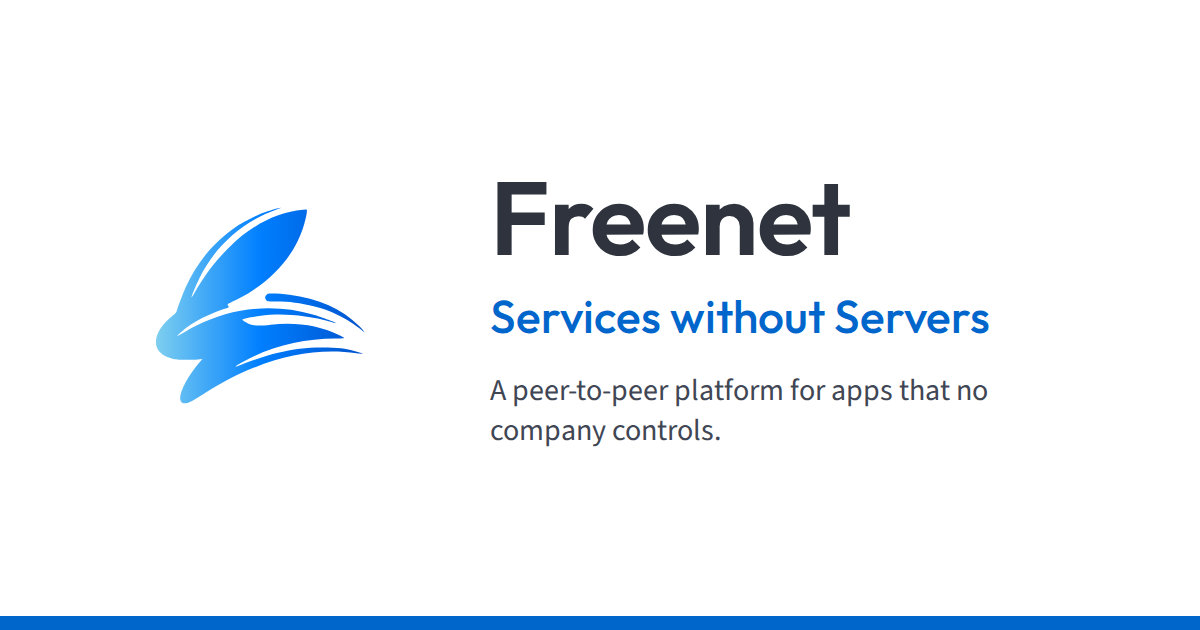
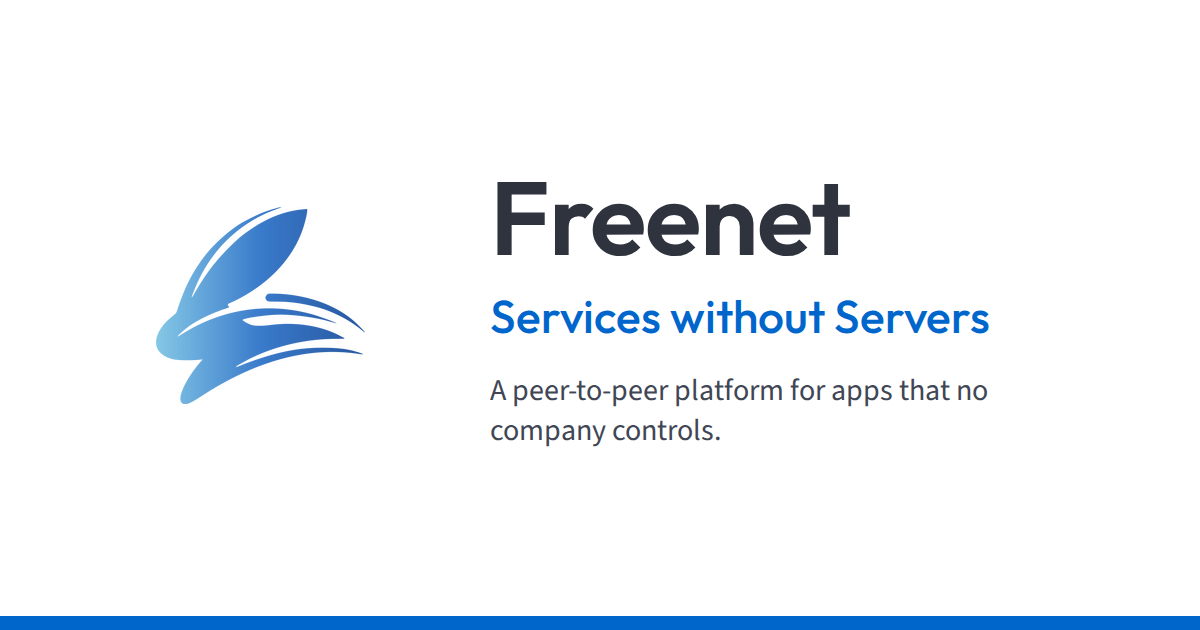
chore: use the desaturated brand colours in the og card and FUTO slides
Brings the logo and brand blues in line with the desaturated freenet.org palette
(freenet/web #208): logo gradient #7ecfef/#007FFF/#0052cc -> #85c8e6/#3a7bcb/#26569f.

Claude-Session: https://claude.ai/code/session_01Xxpwzxo559L3gHJWgziwbV

Changed region(s): [[0.1542, 0.3317, 0.3083, 0.6333]]

diff --git a/hugo-site/static/slides/futo/network-hero-dark.js b/hugo-site/static/slides/futo/network-hero-dark.js
@@ -18,7 +18,7 @@
 
   // Event type colors (matches dashboard)
   const COLORS = {
-    connect:   '#7ecfef',
+    connect:   '#85c8e6',
     put:       '#fbbf24',
     get:       '#34d399',
     update:    '#a78bfa',
@@ -43,8 +43,8 @@
 
   function ringColor()   { return isDark() ? '#1a2a2a' : '#d0d8e0'; }
   function glowColor()   { return isDark() ? 'rgba(0, 212, 170, 0.08)' : 'rgba(0, 140, 120, 0.06)'; }
-  function peerColor()   { return isDark() ? '#007FFF' : '#3388dd'; }
-  function peerGlow()    { return isDark() ? 'rgba(0, 127, 255, 0.18)' : 'rgba(0, 100, 200, 0.12)'; }
+  function peerColor()   { return isDark() ? '#3a7bcb' : '#3388dd'; }
+  function peerGlow()    { return isDark() ? 'rgba(58, 123, 203, 0.18)' : 'rgba(0, 100, 200, 0.12)'; }
   function gwColor()     { return '#f59e0b'; }
   function labelColor()  { return isDark() ? '#484f58' : '#8090a0'; }
   function innerRing()   { return isDark() ? 'rgba(255,255,255,0.03)' : 'rgba(0,0,0,0.04)'; }
@@ -216,7 +216,7 @@
     var dark = isDark();
     var alpha = dark ? 0.09 : 0.05;
 
-    ctx.strokeStyle = dark ? 'rgba(0, 127, 255, ' + alpha + ')' : 'rgba(0, 80, 180, ' + alpha + ')';
+    ctx.strokeStyle = dark ? 'rgba(58, 123, 203, ' + alpha + ')' : 'rgba(0, 80, 180, ' + alpha + ')';
     ctx.beginPath();
     for (var i = 0; i < connections.length; i++) {
       var c = connections[i];
